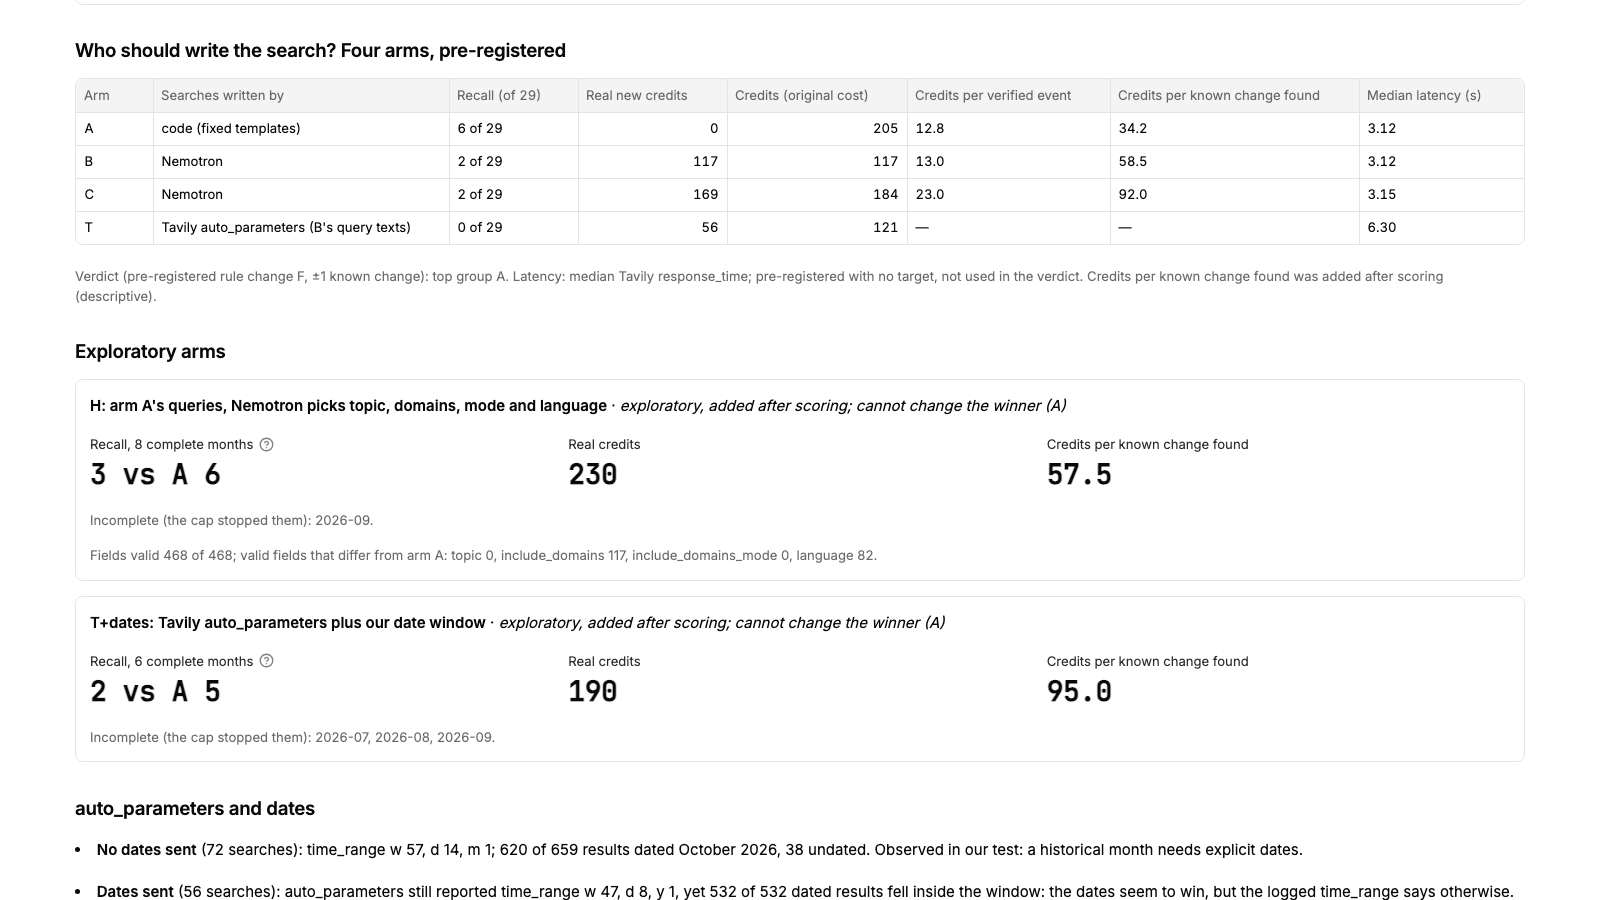
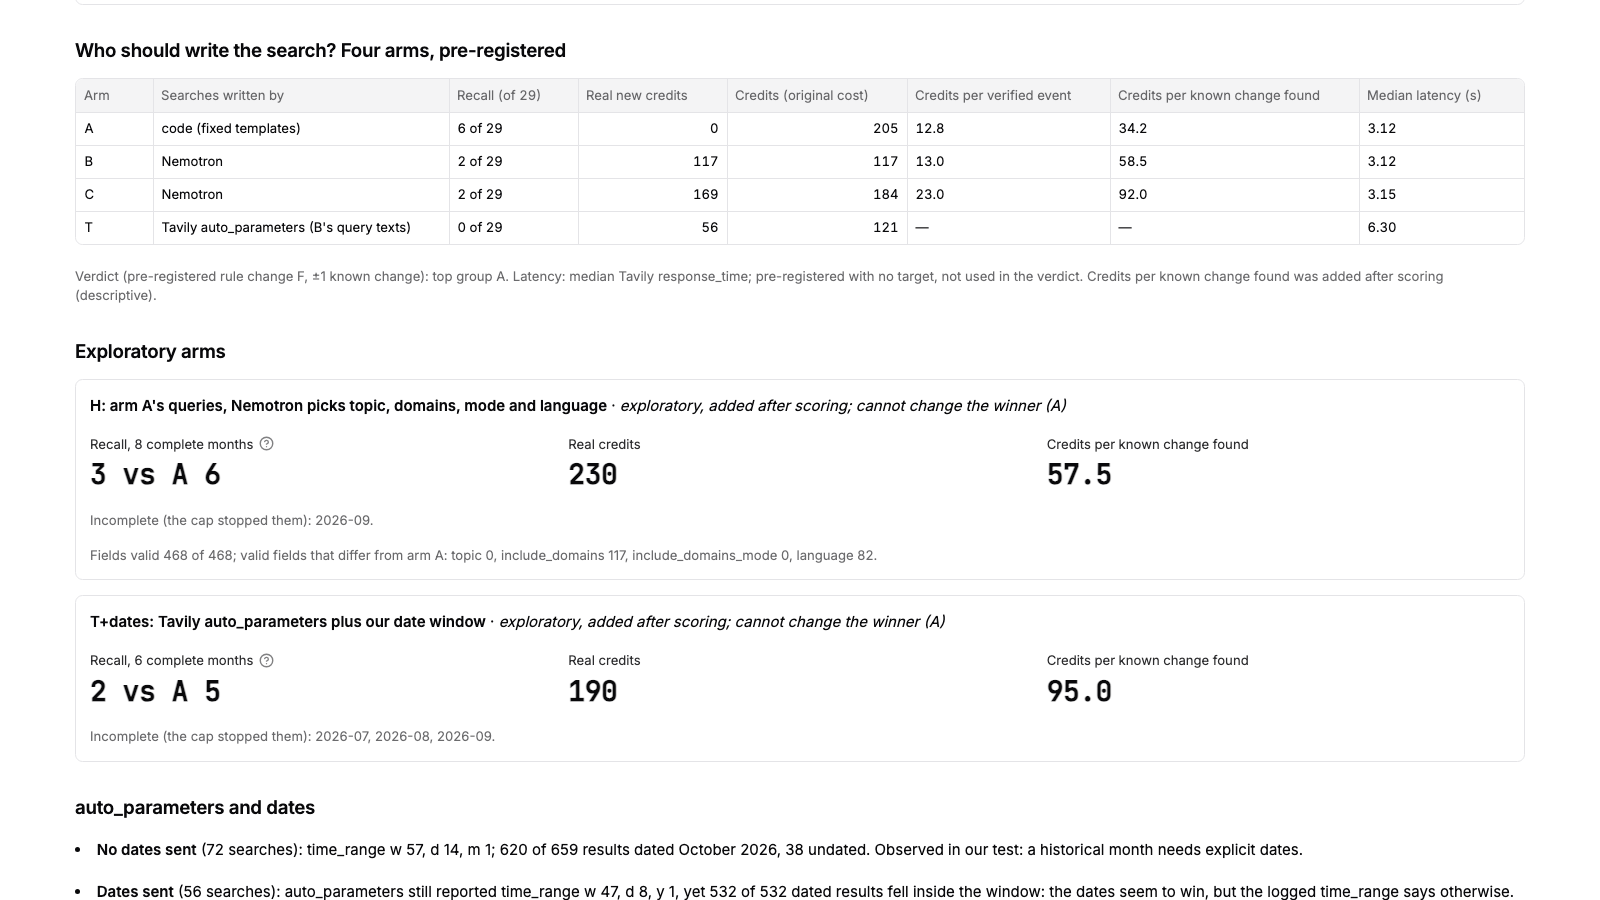
Gallery: shot 1 is the Leak demo opening screen; app shots rebuilt (display only)
- tools/build_gallery.py captures the default page at the top (brand header + the 9/20 -> 0/20 hero on the
  pre-registered initial pass) as docs/gallery/1_leak_demo.png, replacing the Field Report leak table
  (1_leak_table.png, removed; the table stays in the app). The four-arm table shot is rebuilt as before.
- Caption 1 rewritten in docs/templates/gallery.md, every number from the results files; docs/gallery/README.md
  re-rendered. Built against a local server on main (f559d44).

diff --git a/tools/build_gallery.py b/tools/build_gallery.py
@@ -5,7 +5,8 @@
     python tools/build_gallery.py --app http://localhost:8541
     python tools/build_gallery.py                     # the two diagrams only
 
-Two shots of the app's Field Report (the leak table, the four-arm table) and two diagrams drawn from the results files:
+Two shots of the app (the Leak demo's first screen, the Field Report's four-arm table) and two diagrams drawn from
+the results files:
 the R196 timeline (results/asof_demo_r196.json) and the pipeline flow. Captions live in docs/gallery/README.md, rendered
 from docs/templates/gallery.md by tools/sync_doc_numbers.py. Needs Playwright with Chromium (dev only, not in
 requirements.txt: the deployed app does not use it).
@@ -19,9 +20,10 @@ from pathlib import Path
 ROOT = Path(__file__).resolve().parent.parent
 OUT = ROOT / "docs" / "gallery"
 W, H = 1600, 900
+# The Leak demo's first screen (the default page, at the top) -> PNG
+FIRST_SCREEN = "1_leak_demo.png"
 # Field Report section heading -> PNG (the heading is scrolled to the top; the sidebar and toolbar are hidden)
-APP_SHOTS = {"Time-locked search leakage": "1_leak_table.png",
-             "Who should write the search? Four arms, pre-registered": "2_four_arm_table.png"}
+APP_SHOTS = {"Who should write the search? Four arms, pre-registered": "2_four_arm_table.png"}
 HIDE_CHROME = ('[data-testid="stSidebar"],[data-testid="stSidebarCollapsedControl"],header,'
                '[data-testid="stToolbar"],[data-testid="stDecoration"]{display:none!important}')
 
@@ -106,6 +108,21 @@ def render(page, markup, path):
     page.screenshot(path=str(path), clip={"x": 0, "y": 0, "width": W, "height": H})
 
 
+def first_screen(page, url, path):
+    """The default page as a visitor first sees it: brand header, then the hero (9/20 -> 0/20 on the pre-registered
+    initial pass). Sidebar and toolbar hidden, as in the other app shot."""
+    sys.path.insert(0, str(ROOT))
+    from app_pages.common import BRAND_LINE
+    page.goto(url.rstrip("/") + "/", wait_until="networkidle")
+    page.add_style_tag(content=HIDE_CHROME)
+    page.get_by_role("heading", name=BRAND_LINE, exact=True).wait_for(timeout=60_000)
+    hero = page.frame_locator('.st-key-hero iframe').locator("#update")
+    hero.wait_for(timeout=60_000)                                  # the hero's last line has drawn
+    page.wait_for_timeout(1500)                                    # web fonts and the theme sync settle
+    page.evaluate("window.scrollTo(0, 0)")
+    page.screenshot(path=str(path))
+
+
 def app_shot(page, url, heading, path):
     page.goto(f"{url.rstrip('/')}/field_report", wait_until="networkidle")
     page.add_style_tag(content=HIDE_CHROME)
@@ -129,6 +146,7 @@ def main(argv):
         render(page, flow_html(), OUT / "4_flow.png")
         if "--app" in argv:
             url = argv[argv.index("--app") + 1]
+            first_screen(page, url, OUT / FIRST_SCREEN)
             for heading, name in APP_SHOTS.items():
                 app_shot(page, url, heading, OUT / name)
         browser.close()

diff --git a/docs/templates/gallery.md b/docs/templates/gallery.md
@@ -4,16 +4,17 @@ Four images for the Devpost gallery (`1600x900` each). The two app shots and bot
 `python tools/build_gallery.py --app <app URL>`; these captions are filled from the results files by
 `python tools/sync_doc_numbers.py` (edit `docs/templates/gallery.md`, not this file).
 
-## The leak table
-![Field Report: time-locked search leakage](1_leak_table.png)
+## The opening screen
+![Leak demo, the app's opening screen: no time lock vs Tavily's time lock, date test](1_leak_demo.png)
 
-**Can a search see the future?** Date test (pilot, {{dt_cases}} past cases, the pre-registered initial pass):
-with no dates, {{dt_nodates}} of {{dt_cases}} cases kept a confirmed leak, a page dated after the cutoff with no
-archive copy on or before it (Wilson {{wilson}} {{dt_nodates_w}}; {{dt_nodates_retry}} of {{dt_cases}} after retrying
-the {{rr_dt_failed}} archive lookups that had failed); with `start_date`/`end_date` and `filter_by_published_date`,
-{{dt_dated}} of {{dt_cases}} ({{dt_dated_w}}). The cost: the filter dropped {{dt_lost_filter}} of {{dt_valid_total}}
-pieces of valid evidence (initial pass). Red rows: no dates; bold rows:
-Tavily's time lock. App page: Field Report. Source: `results/field_report.json`.
+**Can a search engine keep the past in the past?** The app's opening screen. Date test (pilot, {{dt_cases}} past
+cases, the pre-registered initial pass): with no dates, {{dt_nodates}} of {{dt_cases}} cases kept a confirmed leak, a
+page dated after the cutoff with no archive copy on or before it (Wilson {{wilson}} {{dt_nodates_w}};
+{{dt_nodates_retry}} of {{dt_cases}} after retrying the {{rr_dt_failed}} archive lookups that had failed); with
+`start_date`/`end_date` and `filter_by_published_date`, {{dt_dated}} of {{dt_cases}} ({{dt_dated_w}}). The cost: the
+filter dropped {{dt_lost_filter}} of {{dt_valid_total}} pieces of valid evidence (initial pass). Red card: no time
+lock; green card: Tavily's time lock. App page: Leak demo (home). Source: `results/leak_demo.json`,
+`results/field_report.json`.
 
 ## The four-arm table
 ![Field Report: who should write the search, four arms](2_four_arm_table.png)

diff --git a/docs/gallery/README.md b/docs/gallery/README.md
@@ -5,16 +5,17 @@ Four images for the Devpost gallery (`1600x900` each). The two app shots and bot
 `python tools/build_gallery.py --app <app URL>`; these captions are filled from the results files by
 `python tools/sync_doc_numbers.py` (edit `docs/templates/gallery.md`, not this file).
 
-## The leak table
-![Field Report: time-locked search leakage](1_leak_table.png)
+## The opening screen
+![Leak demo, the app's opening screen: no time lock vs Tavily's time lock, date test](1_leak_demo.png)
 
-**Can a search see the future?** Date test (pilot, 20 past cases, the pre-registered initial pass):
-with no dates, 9 of 20 cases kept a confirmed leak, a page dated after the cutoff with no
-archive copy on or before it (Wilson 95% 26–66%; 10 of 20 after retrying
-the 11 archive lookups that had failed); with `start_date`/`end_date` and `filter_by_published_date`,
-0 of 20 (0–16%). The cost: the filter dropped 12 of 40
-pieces of valid evidence (initial pass). Red rows: no dates; bold rows:
-Tavily's time lock. App page: Field Report. Source: `results/field_report.json`.
+**Can a search engine keep the past in the past?** The app's opening screen. Date test (pilot, 20 past
+cases, the pre-registered initial pass): with no dates, 9 of 20 cases kept a confirmed leak, a
+page dated after the cutoff with no archive copy on or before it (Wilson 95% 26–66%;
+10 of 20 after retrying the 11 archive lookups that had failed); with
+`start_date`/`end_date` and `filter_by_published_date`, 0 of 20 (0–16%). The cost: the
+filter dropped 12 of 40 pieces of valid evidence (initial pass). Red card: no time
+lock; green card: Tavily's time lock. App page: Leak demo (home). Source: `results/leak_demo.json`,
+`results/field_report.json`.
 
 ## The four-arm table
 ![Field Report: who should write the search, four arms](2_four_arm_table.png)
